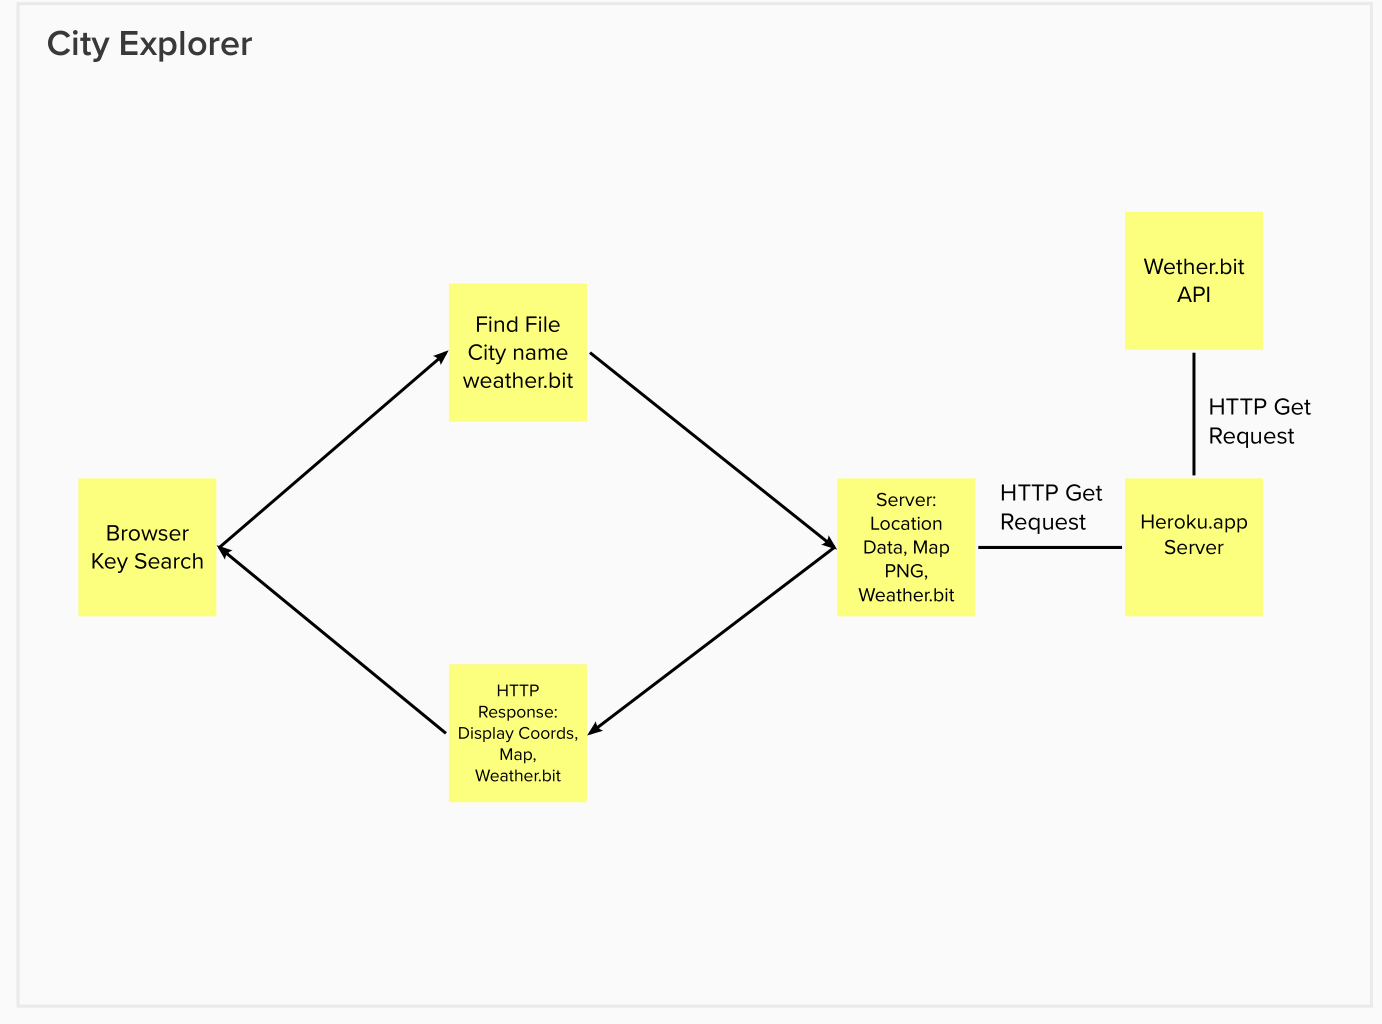
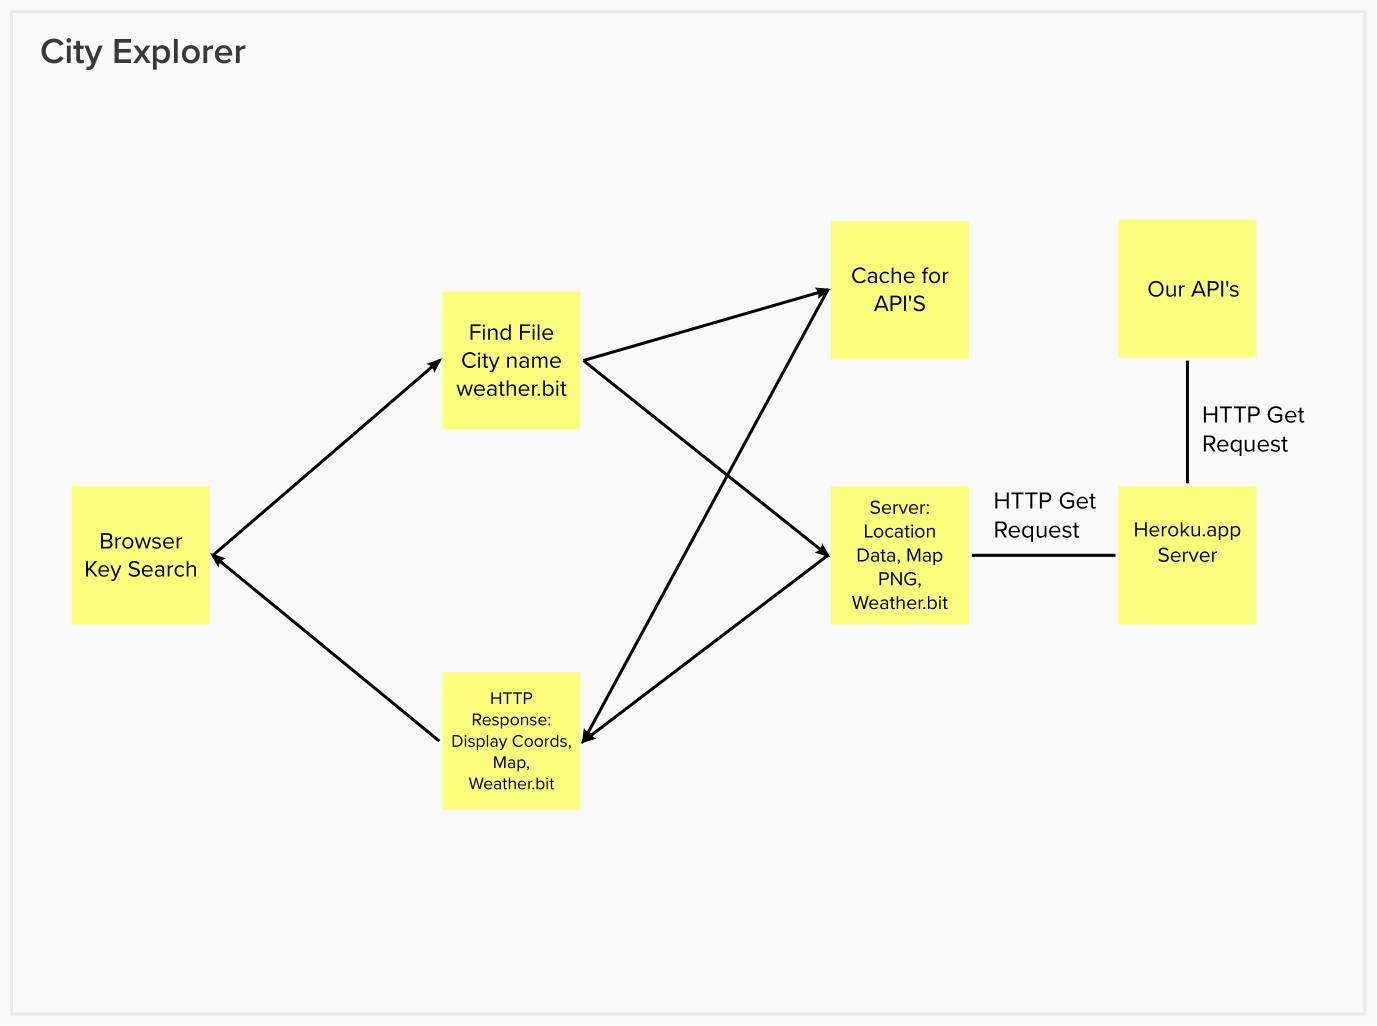
added cache

diff --git a/src/App.js b/src/App.js
@@ -45,8 +45,8 @@ class App extends React.Component {
 
   handleWeather = async () => {
     try {
-      // const API = `http://localhost:3001/weather?searchQuery=${this.state.searchQuery}`;
-      const API = `${process.env.REACT_APP_SERVER}/weather?searchQuery=${this.state.searchQuery}`;
+      const API = `http://localhost:3001/weather?searchQuery=${this.state.searchQuery}`;
+      // const API = `${process.env.REACT_APP_SERVER}/weather?searchQuery=${this.state.searchQuery}`;
       const response = await axios.get(API);
       let weatherData = response.data.map(weatherData => {
         return weatherData;
@@ -64,8 +64,8 @@ class App extends React.Component {
 
   handleMovie = async () => {
     try {
-      // const API = `http://localhost:3001/movies?searchQuery=${this.state.searchQuery}`;
-      const API = `${process.env.REACT_APP_SERVER}/movies?searchQuery=${this.state.searchQuery}`;
+      const API = `http://localhost:3001/movies?searchQuery=${this.state.searchQuery}`;
+      // const API = `${process.env.REACT_APP_SERVER}/movies?searchQuery=${this.state.searchQuery}`;
       const response = await axios.get(API);
       let movie = response.data.map(movieData => {
         return movieData;
